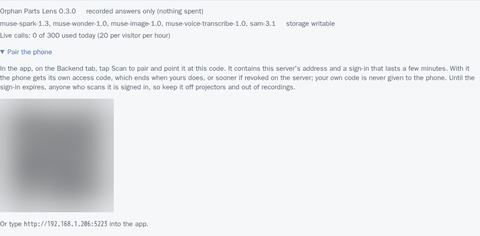
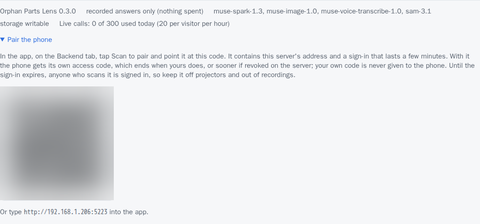
fix(api): list only the models the app calls in the version and the footer

diff --git a/backend/tests/test_health.py b/backend/tests/test_health.py
@@ -21,10 +21,12 @@ def test_readyz_reports_fixture_mode_and_writable_data_dir(client: TestClient) -
     assert body["data_dir_writable"] is True
 
 
-def test_version_lists_every_model_id(client: TestClient) -> None:
+def test_version_lists_the_models_the_app_calls(client: TestClient) -> None:
     body = client.get("/api/version").json()
     assert body["version"] == __version__
-    assert set(body["models"]) == {"spark", "wonder", "image", "voice", "sam"}
+    # Muse Wonder is configured and never called: the footer must not name it
+    assert set(body["models"]) == {"spark", "image", "voice", "sam"}
+    assert "muse-wonder-1.0" not in body["models"].values()
     assert body["models"]["sam"] == "sam-3.1"
 
 

diff --git a/backend/app/api/routes.py b/backend/app/api/routes.py
@@ -95,9 +95,9 @@ def version(settings: SettingsDep) -> Version:
     return Version(
         name="orphan-parts",
         version=__version__,
+        # the models the app calls; Muse Wonder is configured but never called, so not listed
         models={
             "spark": settings.model_spark,
-            "wonder": settings.model_wonder,
             "image": settings.model_image,
             "voice": settings.model_voice,
             "sam": settings.model_sam,

diff --git a/CHANGELOG.md b/CHANGELOG.md
@@ -5,6 +5,8 @@ All notable changes to Orphan Parts Lens. Versions follow SemVer.
 ## Unreleased
 
 ### Changed
+- `GET /api/version`, and with it the footer of every page, lists only the models the app calls (Muse Spark, Muse Image, Muse Voice Transcribe, SAM 3.1); Muse Wonder stays a setting checked by `./dev check-api` and is no longer named there.
+- The judges' guide (`JUDGES.md`, *For judges* on the docs site) starts with a fast path on the hosted app, and every docs page describes the current app; the pairing screenshots are regenerated.
 - The demo visitor reads the demo set's own photos instead of uploading: the web app shows no file input, drop zone or record button without the access code. *Read a label* is a gallery of the set's 19 photos grouped by item, with a checkbox on each, *Select all photos of this item* and **Read the label**; an item's every photo picked is one reading of them all, any other photo is read alone, and the readings are shown side by side, each under *Recorded answer for this sample.* *Measure* in the item dialog marks a sample photo; the Inbox's capture form, the listing's voice note and *Find a part* show *Sign in with the access code to use this.* On the server `/api/extract`, `/api/segment` and `/api/measure` refuse a file from the visitor with 403 (*Sign in with the access code to read your own photos.*) and take sample ids instead (`sample_ids`, `sample_id`); the stored file the id names runs the normal flow, so the recording of that exact photo answers, and a sample with no recording says *No recorded answer for this sample yet.* instead of an operation's stub. Signed in, uploads are read live as before. Until the browser has heard from `GET /api/access` (or while that check fails), every upload surface shows the samples or the line, never a file input; the inputs appear once the answer says signed in, or an open server. A visitor's reading of several samples costs one try per reading, and a recorded reading is kept in memory for the same pick again. The Modal app sets `DEMO_SET=/root/demo/set.yaml`, where its image ships the set, so the hosted gallery is filled; Pillow is pinned to 11.3.0, the version the recordings were made with, since the recordings are keyed on the bytes it writes.
 - The demo set is built from the owner's own photos: three monitors (Dell U2419H, Dell 1800FP, a Sun flat panel), a ThinkPad T510, an older ThinkPad (type 9461), a spare laptop board, an EVGA GeForce 9800 GT, an Intel slot 1 processor, a TP-Link TL-PA2010 powerline adapter and the frappé maker's worn agitator, 19 photos under `demo/photos` with serial numbers, MAC addresses and keys masked and no metadata, and every model answer for them recorded, each photo's own segmentation and read included, so the hosted demo shows real items at no cost and `./dev eval` scores 14 of 14 expected values with no stub answers. The agitator search brings back four written listings: one documented candidate, two rejected on a rule, one that needs evidence. `./dev record-fixtures` takes the key from the shell as well as from `.env`, and a recording names the digest of its request `digest` rather than `key`, which secret scanners read as a credential (recordings that say `key` still load); the model's encrypted reasoning is kept empty in a recording and left out of its key.
 - The item dialog is laid out in sections: the facts (photos, intent, availability, profile, the values to confirm, details, a separated part), Decide, what it is worth, prepare to sell or give away, measure and fit, and the picture last, each a card with its title; a bar of section links under the name stays in view and scrolls to each. The photos are a row of thumbnails in the flow instead of a strip that covered the fields under it; rows of fields are a grid with the label above each input and the button on their line; checkboxes and radios sit on the line with their text, the mode as one line (*Mode: Sell / Give away*); the demo switch, **History** and **Delete** (outlined in red, at the right) are the footer. The picture section no longer shows a field and a disabled button while pictures are off on the server, only a line saying so; when on, the *as a...* field is empty with an example use as its placeholder and a line under it says the drawing is an illustration, labeled as drawn, never evidence; the Decide row's link reads *See picture controls*.

diff --git a/docs/reference/http-api.md b/docs/reference/http-api.md
@@ -139,7 +139,7 @@ Errors: `400` for a bad photo, `404` for an unknown item, measurement or profile
 | `POST /api/pair/code` | the phone's own access code, claimed with the pairing as the bearer token and shown once: `code`, `label` (`phone` and the first eight characters of the pairing's id), `expires_at` (`PAIR_CODE_DAYS`, never past the code that signed the page in); one claim per pairing; the code stands while that code does (revoked, expired, or a changed master code ends it); `gated: false` and no code without a gate; 429 once the address's code attempts are spent; 401 without a live pairing; a successful claim clears the address's count; 403 for a browser's session, a second claim, a phone's own code, when the code that paired the phone has ended, or when that code has `PAIR_CODE_MAX` phones with current codes already |
 | `GET /healthz` | process is up |
 | `GET /readyz` | config loaded, Model API mode (`live`, `record` or `fixture`; `fixture (key failed)` when the key did not answer the startup probe; `... for the code, recorded otherwise` behind a gate with a key), data directory writable, spend so far against the cap, `paused` once the cap is reached, and the gate under `demo`: `gated`, `live_models`, `paused` (the operator's switch), `daily_used`, `daily_cap`, `visitor_cap_per_hour` |
-| `GET /api/version` | package version, the configured model IDs, the upload `limits` (`max_photos`, `max_upload_mb`, `max_clip_mb`) the web forms follow, and `pictures`, whether an item's picture may be drawn (`PICTURE_ENABLED`) |
+| `GET /api/version` | package version, the IDs of the models the app calls (`spark`, `image`, `voice`, `sam`), the upload `limits` (`max_photos`, `max_upload_mb`, `max_clip_mb`) the web forms follow, and `pictures`, whether an item's picture may be drawn (`PICTURE_ENABLED`) |
 | `GET /api/spend` | the spend ledger: total, cap, remaining, calls per model with token counts, live versus fixture calls |
 
 Every response carries `X-Request-ID`. Send your own to have it echoed back and used in the logs

diff --git a/docs/reference/configuration.md b/docs/reference/configuration.md
@@ -10,7 +10,7 @@ stops the service with a clear message instead of failing on the first user requ
 | `OPL_KEY_PROBE` | `1` | | one `GET /models` at startup in live mode; a key that cannot work (401, 402, 403, 404) puts the service on recorded answers, said on `/readyz`; a busy or failing API changes nothing |
 | `MODEL_API_BASE_URL` | `https://api.meta.ai/v1` | | Model API base URL |
 | `MODEL_SPARK` | `muse-spark-1.3` | | Muse Spark model ID |
-| `MODEL_WONDER` | `muse-wonder-1.0` | | Muse Wonder model ID; listed and checked, no call in this version |
+| `MODEL_WONDER` | `muse-wonder-1.0` | | Muse Wonder model ID; checked by `./dev check-api`, never called in this version, and not listed by `GET /api/version` |
 | `MODEL_IMAGE` | `muse-image-1.0` | | Muse Image model ID; draws a picture of what an item could become when `PICTURE_ENABLED` is set and the owner clicks |
 | `MODEL_VOICE` | `muse-voice-transcribe-1.0` | | Muse Voice Transcribe model ID |
 | `MODEL_SAM` | `sam-3.1` | | SAM model ID |

diff --git a/docs/models/muse-wonder.md b/docs/models/muse-wonder.md
@@ -1,7 +1,8 @@
 # Muse Wonder
 
-Not used in this version. Its ID is a setting (`MODEL_WONDER`), listed by `GET /api/version` and
-checked by `./dev check-api`, and its published rates are in the client's price table, so a call
+Not used in this version. Its ID is a setting (`MODEL_WONDER`), checked by `./dev check-api`
+and left out of `GET /api/version` and the page footer, which name only the models the app
+calls; its published rates are in the client's price table, so a call
 to it would be priced correctly; no feature makes one. The jobs it was considered for, planning
 a comparison across several candidates and drafting a category profile from example photos, are
 under [Next steps](../project/next.md). Muse Spark does every reasoning job today; see
